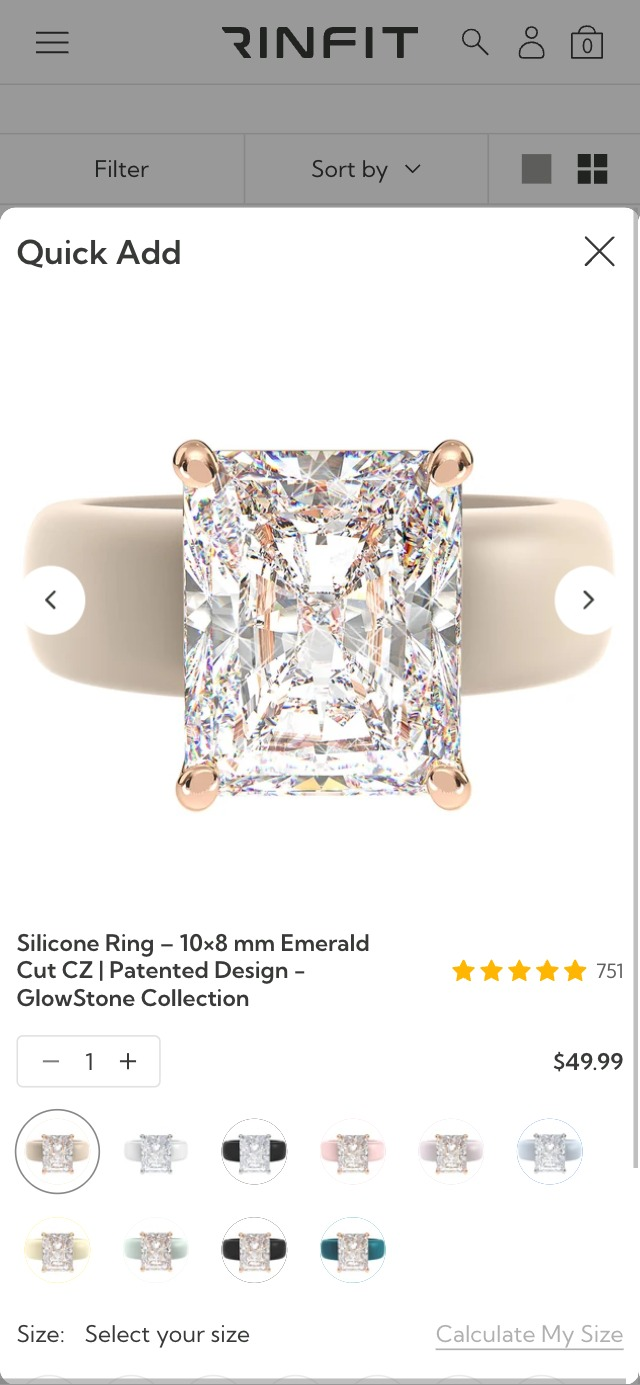
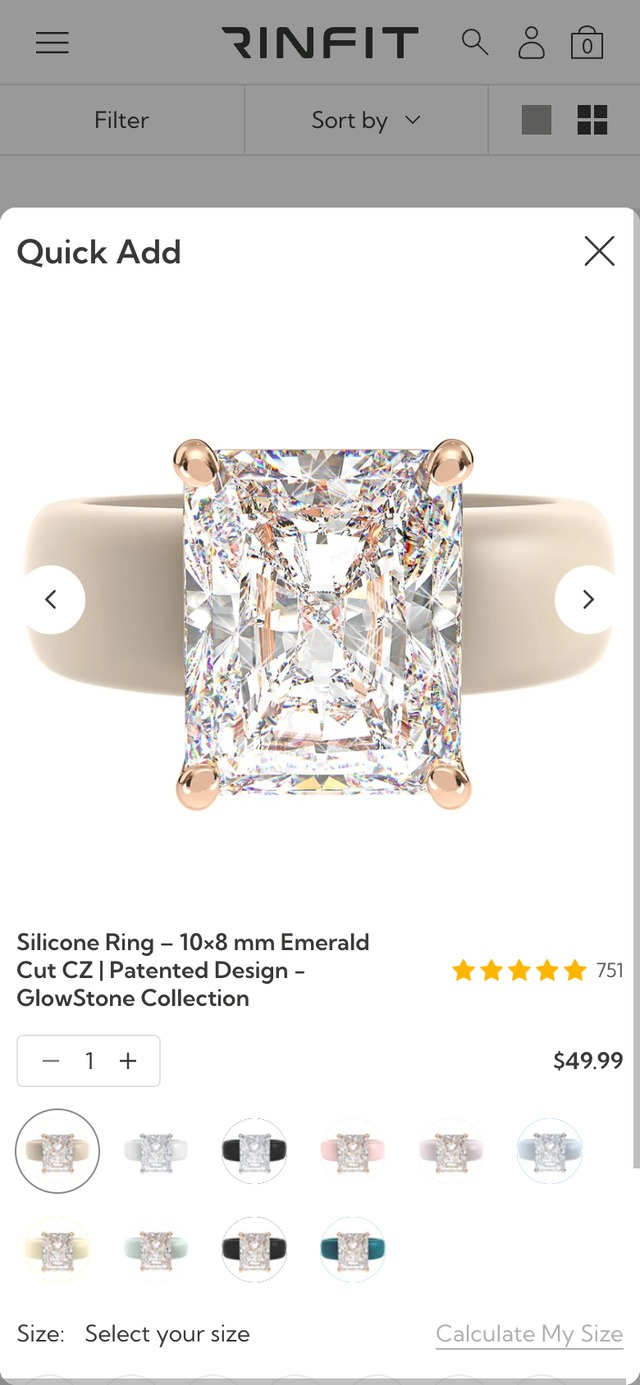
Пункт 01 уточнено: баг у каталозі, на головній Quick Buy працює правильно
Перевірено реальними тапами на мобільному: у /collections/women-rings обраний
колір не переноситься у вікно Quick Add, а в ряді Best Sellers на головній —
переноситься. Скрін «Зараз» замінено на свіжий мобільний кадр каталогу.

diff --git a/index.html b/index.html
@@ -1139,9 +1139,9 @@ a.irow:hover b{text-decoration:underline}
 
 <section class="slide" id="p01">
   <img class="silk sm" src="img/silk.png" alt="">
-  <div class="shead"><span class="num">01</span><h2><span class="sev crit">Критично</span>Обраний колір губиться дорогою до кошика</h2></div>
+  <div class="shead"><span class="num">01</span><h2><span class="sev crit">Критично</span>У каталозі обраний колір губиться дорогою до кошика</h2></div>
   <div class="pbody">
-    <div class="txt t1"><div class="lbl"><span class="pill">Зараз</span><svg class="conn" viewBox="0 0 54 12"><path d="M0 6h50M45 1.5 50 6l-5 4.5" fill="none" stroke="#6d6d6d" stroke-width="1.5"/></svg></div><p>Покупець тисне на картці <b>рожевий</b> — фото на картці слухняно стає рожевим. Тисне <b>Quick Buy</b>, щоб обрати розмір і додати в кошик.</p><p>І у вікні знову <b>те саме колечко, що було до вибору</b> — перше зі списку. Покупець уже вважає, що обрав колір, і тисне «Add to Cart».</p><p class="fine-note">Перевірено в коді 18.09.2026: на картці активний 4-й свотч, у вікні — перший.</p></div><div class="v1"><div class="phone"><div class="screen"><div class="island"></div><div class="sbar"><span>9:41</span><svg viewBox="0 0 24 11"><rect x=".5" y=".5" width="20" height="10" rx="3" fill="none" stroke="#111"/><rect x="2" y="2" width="16" height="7" rx="1.5" fill="#111"/><rect x="21.5" y="3.5" width="1.8" height="4" rx=".9" fill="#111"/></svg></div><div class="view"><img class="shot" src="img/n-quickbuy-m.jpg" alt=""></div><div class="url"><span>rinfit.com</span></div></div></div><div class="cap">Обрали рожевий — у вікні знову бежевий</div></div><div class="txt t2"><div class="lbl"><span class="pill">Пропонуємо</span><svg class="conn" viewBox="0 0 54 12"><path d="M0 6h50M45 1.5 50 6l-5 4.5" fill="none" stroke="#6d6d6d" stroke-width="1.5"/></svg></div><p>Передавати обраний варіант у вікно швидкої покупки: той самий колір, те саме фото, та сама ціна.</p></div><div class="v2"><div class="phone"><div class="screen"><div class="island"></div><div class="sbar"><span>9:41</span><svg viewBox="0 0 24 11"><rect x=".5" y=".5" width="20" height="10" rx="3" fill="none" stroke="#111"/><rect x="2" y="2" width="16" height="7" rx="1.5" fill="#111"/><rect x="21.5" y="3.5" width="1.8" height="4" rx=".9" fill="#111"/></svg></div><div class="view"><div class="mock rf2 "><div class="r-hdr"><svg class="r-burger" viewBox="0 0 22 16" width="22" height="16"><path d="M0 1h22M0 8h22M0 15h22" stroke="#1a1a1a" stroke-width="1.6"/></svg><span class="r-logo">RINFIT</span><span class="r-ic"><svg viewBox="0 0 18 18"><circle cx="7.6" cy="7.6" r="6" fill="none" stroke="#1a1a1a" stroke-width="1.4"/><path d="M12 12l5 5" stroke="#1a1a1a" stroke-width="1.4"/></svg><svg viewBox="0 0 18 18"><circle cx="9" cy="5.6" r="3.6" fill="none" stroke="#1a1a1a" stroke-width="1.4"/><path d="M2.4 17c1.2-3.6 3.7-5.4 6.6-5.4S14.4 13.4 15.6 17" fill="none" stroke="#1a1a1a" stroke-width="1.4"/></svg><span class="r-bag"><svg viewBox="0 0 18 18" width="18" height="18"><path d="M2.6 4.6h12.8V17H2.6z" fill="none" stroke="#1a1a1a" stroke-width="1.4"/><path d="M6.2 6.4V4.2a2.8 2.8 0 0 1 5.6 0v2.2" fill="none" stroke="#1a1a1a" stroke-width="1.4"/></svg><i>0</i></span></span></div><div class="r-body"><div class="r-qa"><b>Quick Add</b><u>&#10005;</u></div><div class="r-qa-photo"><img src="img/pr4.jpg" alt=""></div><div class="r-opt"><div class="r-stars2">&#9733;&#9733;&#9733;&#9733;&#9733; <span>751</span></div><div class="r-qa-title">Silicone Ring &#8211; 10&#215;8 mm Emerald Cut CZ | Patented Design</div><div class="r-qa-price">$49.99</div></div><div class="r-swrow"><i class="" style="background-image:url(img/sw-1.jpg)"></i><i class="" style="background-image:url(img/sw-2.jpg)"></i><i class="" style="background-image:url(img/sw-3.jpg)"></i><i class="on" style="background-image:url(img/sw-4.jpg)"></i><i class="" style="background-image:url(img/sw-5.jpg)"></i><i class="" style="background-image:url(img/sw-6.jpg)"></i><i class="" style="background-image:url(img/sw-7.jpg)"></i><i class="" style="background-image:url(img/sw-8.jpg)"></i><i class="" style="background-image:url(img/sw-9.jpg)"></i><i class="" style="background-image:url(img/sw-10.jpg)"></i></div><div class="r-opt"><div class="r-picked">Pink and Rose Gold &#8212; as you chose it</div></div><div class="r-opt"><div class="lb">Size:<em>Select your size</em></div><div class="r-sizes"><span>4</span><span>5</span><span>6</span><span>7</span><span>8</span><span>9</span><span>10</span></div></div><div class="r-btn">SELECT YOUR SIZE</div></div></div></div><div class="url"><span>rinfit.com</span></div></div></div><div class="cap">Вікно відкривається з обраним кольором</div></div><div class="cardcol"><div class="benefit-top"><span class="pill">Користь</span><span class="arrow"><svg width="14" height="16" viewBox="0 0 14 16"><path d="M7 1v13M1.5 8.5 7 14l5.5-5.5" fill="none" stroke="#444" stroke-width="1.6"/></svg></span></div><div class="card"><p>Покупець отримує той колір, який обрав, а не той, що був до нього. Це єдиний пункт із восьми, який коштує вам замовлень і повернень просто зараз.</p><div class="stats"><div><b>4-й колір</b><span>обрано на картці</span></div><div><b>1-й колір</b><span>відкривається у вікні</span></div></div></div><div class="ptag"><span>Вартість</span><b>$120</b><em>3 год роботи &#183; $40/год</em></div></div>
+    <div class="txt t1"><div class="lbl"><span class="pill">Зараз</span><svg class="conn" viewBox="0 0 54 12"><path d="M0 6h50M45 1.5 50 6l-5 4.5" fill="none" stroke="#6d6d6d" stroke-width="1.5"/></svg></div><p>У <b>каталозі</b> покупець тисне на картці рожевий — фото слухняно стає рожевим. Тисне <b>Quick Buy</b>, щоб обрати розмір.</p><p>І у вікні знову <b>те колечко, що було до вибору</b> — перше зі списку. Людина вже вважає, що колір обрала, і тисне «Add to Cart».</p><p class="fine-note">Перевірено на телефоні 18.09.2026. На головній, у ряді Best Sellers, той самий Quick Buy колір переносить правильно — ламається саме каталог.</p></div><div class="v1"><div class="phone"><div class="screen"><div class="island"></div><div class="sbar"><span>9:41</span><svg viewBox="0 0 24 11"><rect x=".5" y=".5" width="20" height="10" rx="3" fill="none" stroke="#111"/><rect x="2" y="2" width="16" height="7" rx="1.5" fill="#111"/><rect x="21.5" y="3.5" width="1.8" height="4" rx=".9" fill="#111"/></svg></div><div class="view"><img class="shot" src="img/n-quickbuy-m.jpg" alt=""></div><div class="url"><span>rinfit.com</span></div></div></div><div class="cap">Каталог: обрали рожевий — у вікні бежевий</div></div><div class="txt t2"><div class="lbl"><span class="pill">Пропонуємо</span><svg class="conn" viewBox="0 0 54 12"><path d="M0 6h50M45 1.5 50 6l-5 4.5" fill="none" stroke="#6d6d6d" stroke-width="1.5"/></svg></div><p>Передавати обраний варіант у вікно швидкої покупки: той самий колір, те саме фото, та сама ціна.</p></div><div class="v2"><div class="phone"><div class="screen"><div class="island"></div><div class="sbar"><span>9:41</span><svg viewBox="0 0 24 11"><rect x=".5" y=".5" width="20" height="10" rx="3" fill="none" stroke="#111"/><rect x="2" y="2" width="16" height="7" rx="1.5" fill="#111"/><rect x="21.5" y="3.5" width="1.8" height="4" rx=".9" fill="#111"/></svg></div><div class="view"><div class="mock rf2 "><div class="r-hdr"><svg class="r-burger" viewBox="0 0 22 16" width="22" height="16"><path d="M0 1h22M0 8h22M0 15h22" stroke="#1a1a1a" stroke-width="1.6"/></svg><span class="r-logo">RINFIT</span><span class="r-ic"><svg viewBox="0 0 18 18"><circle cx="7.6" cy="7.6" r="6" fill="none" stroke="#1a1a1a" stroke-width="1.4"/><path d="M12 12l5 5" stroke="#1a1a1a" stroke-width="1.4"/></svg><svg viewBox="0 0 18 18"><circle cx="9" cy="5.6" r="3.6" fill="none" stroke="#1a1a1a" stroke-width="1.4"/><path d="M2.4 17c1.2-3.6 3.7-5.4 6.6-5.4S14.4 13.4 15.6 17" fill="none" stroke="#1a1a1a" stroke-width="1.4"/></svg><span class="r-bag"><svg viewBox="0 0 18 18" width="18" height="18"><path d="M2.6 4.6h12.8V17H2.6z" fill="none" stroke="#1a1a1a" stroke-width="1.4"/><path d="M6.2 6.4V4.2a2.8 2.8 0 0 1 5.6 0v2.2" fill="none" stroke="#1a1a1a" stroke-width="1.4"/></svg><i>0</i></span></span></div><div class="r-body"><div class="r-qa"><b>Quick Add</b><u>&#10005;</u></div><div class="r-qa-photo"><img src="img/pr4.jpg" alt=""></div><div class="r-opt"><div class="r-stars2">&#9733;&#9733;&#9733;&#9733;&#9733; <span>751</span></div><div class="r-qa-title">Silicone Ring &#8211; 10&#215;8 mm Emerald Cut CZ | Patented Design</div><div class="r-qa-price">$49.99</div></div><div class="r-swrow"><i class="" style="background-image:url(img/sw-1.jpg)"></i><i class="" style="background-image:url(img/sw-2.jpg)"></i><i class="" style="background-image:url(img/sw-3.jpg)"></i><i class="on" style="background-image:url(img/sw-4.jpg)"></i><i class="" style="background-image:url(img/sw-5.jpg)"></i><i class="" style="background-image:url(img/sw-6.jpg)"></i><i class="" style="background-image:url(img/sw-7.jpg)"></i><i class="" style="background-image:url(img/sw-8.jpg)"></i><i class="" style="background-image:url(img/sw-9.jpg)"></i><i class="" style="background-image:url(img/sw-10.jpg)"></i></div><div class="r-opt"><div class="r-picked">Pink and Rose Gold &#8212; as you chose it</div></div><div class="r-opt"><div class="lb">Size:<em>Select your size</em></div><div class="r-sizes"><span>4</span><span>5</span><span>6</span><span>7</span><span>8</span><span>9</span><span>10</span></div></div><div class="r-btn">SELECT YOUR SIZE</div></div></div></div><div class="url"><span>rinfit.com</span></div></div></div><div class="cap">Вікно відкривається з обраним кольором</div></div><div class="cardcol"><div class="benefit-top"><span class="pill">Користь</span><span class="arrow"><svg width="14" height="16" viewBox="0 0 14 16"><path d="M7 1v13M1.5 8.5 7 14l5.5-5.5" fill="none" stroke="#444" stroke-width="1.6"/></svg></span></div><div class="card"><p>Покупець отримує той колір, який обрав, а не той, що був до нього. Це єдиний пункт із восьми, який коштує вам замовлень і повернень просто зараз — і саме в каталозі, де кольори й обирають.</p><div class="stats"><div><b>каталог</b><span>колір не переноситься</span></div><div><b>головна</b><span>той самий Quick Buy працює правильно</span></div></div></div><div class="ptag"><span>Вартість</span><b>$120</b><em>3 год роботи &#183; $40/год</em></div></div>
   </div>
 </section>
 

diff --git a/en/index.html b/en/index.html
@@ -1136,9 +1136,9 @@ a.irow:hover b{text-decoration:underline}
 
 <section class="slide" id="p01">
   <img class="silk sm" src="../img/silk.png" alt="">
-  <div class="shead"><span class="num">01</span><h2><span class="sev crit">Critical</span>The chosen color is lost on the way to the cart</h2></div>
+  <div class="shead"><span class="num">01</span><h2><span class="sev crit">Critical</span>In the catalog the chosen color is lost on the way to the cart</h2></div>
   <div class="pbody">
-    <div class="txt t1"><div class="lbl"><span class="pill">Today</span><svg class="conn" viewBox="0 0 54 12"><path d="M0 6h50M45 1.5 50 6l-5 4.5" fill="none" stroke="#6d6d6d" stroke-width="1.5"/></svg></div><p>The shopper taps <b>pink</b> on the card — and the card photo dutifully turns pink. Then taps <b>Quick Buy</b> to pick a size and add it to the cart.</p><p>And the window shows <b>the same ring that was there before the choice</b> — the first in the list. The shopper already believes the color is chosen, and taps "Add to Cart".</p><p class="fine-note">Verified in the code, 18 Sep 2026: the card has the 4th swatch active, the window the first.</p></div><div class="v1"><div class="phone"><div class="screen"><div class="island"></div><div class="sbar"><span>9:41</span><svg viewBox="0 0 24 11"><rect x=".5" y=".5" width="20" height="10" rx="3" fill="none" stroke="#111"/><rect x="2" y="2" width="16" height="7" rx="1.5" fill="#111"/><rect x="21.5" y="3.5" width="1.8" height="4" rx=".9" fill="#111"/></svg></div><div class="view"><img class="shot" src="../img/n-quickbuy-m.jpg" alt=""></div><div class="url"><span>rinfit.com</span></div></div></div><div class="cap">Picked pink — the window is nude again</div></div><div class="txt t2"><div class="lbl"><span class="pill">We propose</span><svg class="conn" viewBox="0 0 54 12"><path d="M0 6h50M45 1.5 50 6l-5 4.5" fill="none" stroke="#6d6d6d" stroke-width="1.5"/></svg></div><p>Carry the chosen variant into the quick-buy window: same color, same photo, same price.</p></div><div class="v2"><div class="phone"><div class="screen"><div class="island"></div><div class="sbar"><span>9:41</span><svg viewBox="0 0 24 11"><rect x=".5" y=".5" width="20" height="10" rx="3" fill="none" stroke="#111"/><rect x="2" y="2" width="16" height="7" rx="1.5" fill="#111"/><rect x="21.5" y="3.5" width="1.8" height="4" rx=".9" fill="#111"/></svg></div><div class="view"><div class="mock rf2 "><div class="r-hdr"><svg class="r-burger" viewBox="0 0 22 16" width="22" height="16"><path d="M0 1h22M0 8h22M0 15h22" stroke="#1a1a1a" stroke-width="1.6"/></svg><span class="r-logo">RINFIT</span><span class="r-ic"><svg viewBox="0 0 18 18"><circle cx="7.6" cy="7.6" r="6" fill="none" stroke="#1a1a1a" stroke-width="1.4"/><path d="M12 12l5 5" stroke="#1a1a1a" stroke-width="1.4"/></svg><svg viewBox="0 0 18 18"><circle cx="9" cy="5.6" r="3.6" fill="none" stroke="#1a1a1a" stroke-width="1.4"/><path d="M2.4 17c1.2-3.6 3.7-5.4 6.6-5.4S14.4 13.4 15.6 17" fill="none" stroke="#1a1a1a" stroke-width="1.4"/></svg><span class="r-bag"><svg viewBox="0 0 18 18" width="18" height="18"><path d="M2.6 4.6h12.8V17H2.6z" fill="none" stroke="#1a1a1a" stroke-width="1.4"/><path d="M6.2 6.4V4.2a2.8 2.8 0 0 1 5.6 0v2.2" fill="none" stroke="#1a1a1a" stroke-width="1.4"/></svg><i>0</i></span></span></div><div class="r-body"><div class="r-qa"><b>Quick Add</b><u>&#10005;</u></div><div class="r-qa-photo"><img src="../img/pr4.jpg" alt=""></div><div class="r-opt"><div class="r-stars2">&#9733;&#9733;&#9733;&#9733;&#9733; <span>751</span></div><div class="r-qa-title">Silicone Ring &#8211; 10&#215;8 mm Emerald Cut CZ | Patented Design</div><div class="r-qa-price">$49.99</div></div><div class="r-swrow"><i class="" style="background-image:url(../img/sw-1.jpg)"></i><i class="" style="background-image:url(../img/sw-2.jpg)"></i><i class="" style="background-image:url(../img/sw-3.jpg)"></i><i class="on" style="background-image:url(../img/sw-4.jpg)"></i><i class="" style="background-image:url(../img/sw-5.jpg)"></i><i class="" style="background-image:url(../img/sw-6.jpg)"></i><i class="" style="background-image:url(../img/sw-7.jpg)"></i><i class="" style="background-image:url(../img/sw-8.jpg)"></i><i class="" style="background-image:url(../img/sw-9.jpg)"></i><i class="" style="background-image:url(../img/sw-10.jpg)"></i></div><div class="r-opt"><div class="r-picked">Pink and Rose Gold &#8212; as you chose it</div></div><div class="r-opt"><div class="lb">Size:<em>Select your size</em></div><div class="r-sizes"><span>4</span><span>5</span><span>6</span><span>7</span><span>8</span><span>9</span><span>10</span></div></div><div class="r-btn">SELECT YOUR SIZE</div></div></div></div><div class="url"><span>rinfit.com</span></div></div></div><div class="cap">The window opens on the chosen color</div></div><div class="cardcol"><div class="benefit-top"><span class="pill">Why it pays</span><span class="arrow"><svg width="14" height="16" viewBox="0 0 14 16"><path d="M7 1v13M1.5 8.5 7 14l5.5-5.5" fill="none" stroke="#444" stroke-width="1.6"/></svg></span></div><div class="card"><p>The shopper gets the color they picked, not the one that was there before. This is the one item of the eight that is costing you orders and returns right now.</p><div class="stats"><div><b>4th color</b><span>chosen on the card</span></div><div><b>1st color</b><span>opens in the window</span></div></div></div><div class="ptag"><span>Price</span><b>$120</b><em>3 hours &#183; $40/hour</em></div></div>
+    <div class="txt t1"><div class="lbl"><span class="pill">Today</span><svg class="conn" viewBox="0 0 54 12"><path d="M0 6h50M45 1.5 50 6l-5 4.5" fill="none" stroke="#6d6d6d" stroke-width="1.5"/></svg></div><p>In the <b>catalog</b> the shopper taps pink on the card — and the photo dutifully turns pink. Then taps <b>Quick Buy</b> to pick a size.</p><p>And the window shows <b>the ring that was there before the choice</b> — the first in the list. The shopper already believes the color is set, and taps "Add to Cart".</p><p class="fine-note">Checked on a phone, 18 Sep 2026. On the homepage, in the Best Sellers row, the same Quick Buy carries the color across correctly — it is the catalog that breaks.</p></div><div class="v1"><div class="phone"><div class="screen"><div class="island"></div><div class="sbar"><span>9:41</span><svg viewBox="0 0 24 11"><rect x=".5" y=".5" width="20" height="10" rx="3" fill="none" stroke="#111"/><rect x="2" y="2" width="16" height="7" rx="1.5" fill="#111"/><rect x="21.5" y="3.5" width="1.8" height="4" rx=".9" fill="#111"/></svg></div><div class="view"><img class="shot" src="../img/n-quickbuy-m.jpg" alt=""></div><div class="url"><span>rinfit.com</span></div></div></div><div class="cap">Catalog: picked pink, the window shows nude</div></div><div class="txt t2"><div class="lbl"><span class="pill">We propose</span><svg class="conn" viewBox="0 0 54 12"><path d="M0 6h50M45 1.5 50 6l-5 4.5" fill="none" stroke="#6d6d6d" stroke-width="1.5"/></svg></div><p>Carry the chosen variant into the quick-buy window: same color, same photo, same price.</p></div><div class="v2"><div class="phone"><div class="screen"><div class="island"></div><div class="sbar"><span>9:41</span><svg viewBox="0 0 24 11"><rect x=".5" y=".5" width="20" height="10" rx="3" fill="none" stroke="#111"/><rect x="2" y="2" width="16" height="7" rx="1.5" fill="#111"/><rect x="21.5" y="3.5" width="1.8" height="4" rx=".9" fill="#111"/></svg></div><div class="view"><div class="mock rf2 "><div class="r-hdr"><svg class="r-burger" viewBox="0 0 22 16" width="22" height="16"><path d="M0 1h22M0 8h22M0 15h22" stroke="#1a1a1a" stroke-width="1.6"/></svg><span class="r-logo">RINFIT</span><span class="r-ic"><svg viewBox="0 0 18 18"><circle cx="7.6" cy="7.6" r="6" fill="none" stroke="#1a1a1a" stroke-width="1.4"/><path d="M12 12l5 5" stroke="#1a1a1a" stroke-width="1.4"/></svg><svg viewBox="0 0 18 18"><circle cx="9" cy="5.6" r="3.6" fill="none" stroke="#1a1a1a" stroke-width="1.4"/><path d="M2.4 17c1.2-3.6 3.7-5.4 6.6-5.4S14.4 13.4 15.6 17" fill="none" stroke="#1a1a1a" stroke-width="1.4"/></svg><span class="r-bag"><svg viewBox="0 0 18 18" width="18" height="18"><path d="M2.6 4.6h12.8V17H2.6z" fill="none" stroke="#1a1a1a" stroke-width="1.4"/><path d="M6.2 6.4V4.2a2.8 2.8 0 0 1 5.6 0v2.2" fill="none" stroke="#1a1a1a" stroke-width="1.4"/></svg><i>0</i></span></span></div><div class="r-body"><div class="r-qa"><b>Quick Add</b><u>&#10005;</u></div><div class="r-qa-photo"><img src="../img/pr4.jpg" alt=""></div><div class="r-opt"><div class="r-stars2">&#9733;&#9733;&#9733;&#9733;&#9733; <span>751</span></div><div class="r-qa-title">Silicone Ring &#8211; 10&#215;8 mm Emerald Cut CZ | Patented Design</div><div class="r-qa-price">$49.99</div></div><div class="r-swrow"><i class="" style="background-image:url(../img/sw-1.jpg)"></i><i class="" style="background-image:url(../img/sw-2.jpg)"></i><i class="" style="background-image:url(../img/sw-3.jpg)"></i><i class="on" style="background-image:url(../img/sw-4.jpg)"></i><i class="" style="background-image:url(../img/sw-5.jpg)"></i><i class="" style="background-image:url(../img/sw-6.jpg)"></i><i class="" style="background-image:url(../img/sw-7.jpg)"></i><i class="" style="background-image:url(../img/sw-8.jpg)"></i><i class="" style="background-image:url(../img/sw-9.jpg)"></i><i class="" style="background-image:url(../img/sw-10.jpg)"></i></div><div class="r-opt"><div class="r-picked">Pink and Rose Gold &#8212; as you chose it</div></div><div class="r-opt"><div class="lb">Size:<em>Select your size</em></div><div class="r-sizes"><span>4</span><span>5</span><span>6</span><span>7</span><span>8</span><span>9</span><span>10</span></div></div><div class="r-btn">SELECT YOUR SIZE</div></div></div></div><div class="url"><span>rinfit.com</span></div></div></div><div class="cap">The window opens on the chosen color</div></div><div class="cardcol"><div class="benefit-top"><span class="pill">Why it pays</span><span class="arrow"><svg width="14" height="16" viewBox="0 0 14 16"><path d="M7 1v13M1.5 8.5 7 14l5.5-5.5" fill="none" stroke="#444" stroke-width="1.6"/></svg></span></div><div class="card"><p>The shopper gets the color they picked, not the one that was there before. This is the one item of the eight costing you orders and returns right now — and it happens in the catalog, where colors are actually chosen.</p><div class="stats"><div><b>catalog</b><span>the color is not carried across</span></div><div><b>homepage</b><span>the same Quick Buy works correctly</span></div></div></div><div class="ptag"><span>Price</span><b>$120</b><em>3 hours &#183; $40/hour</em></div></div>
   </div>
 </section>
 
